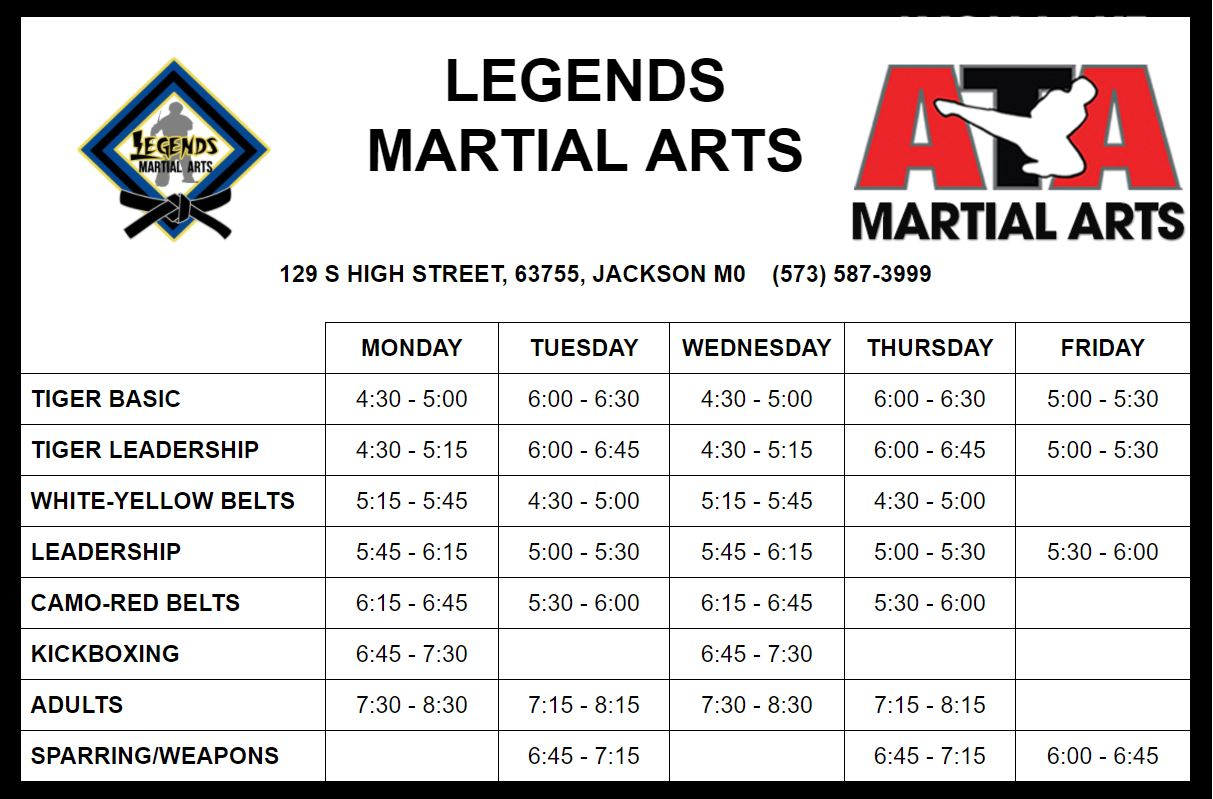
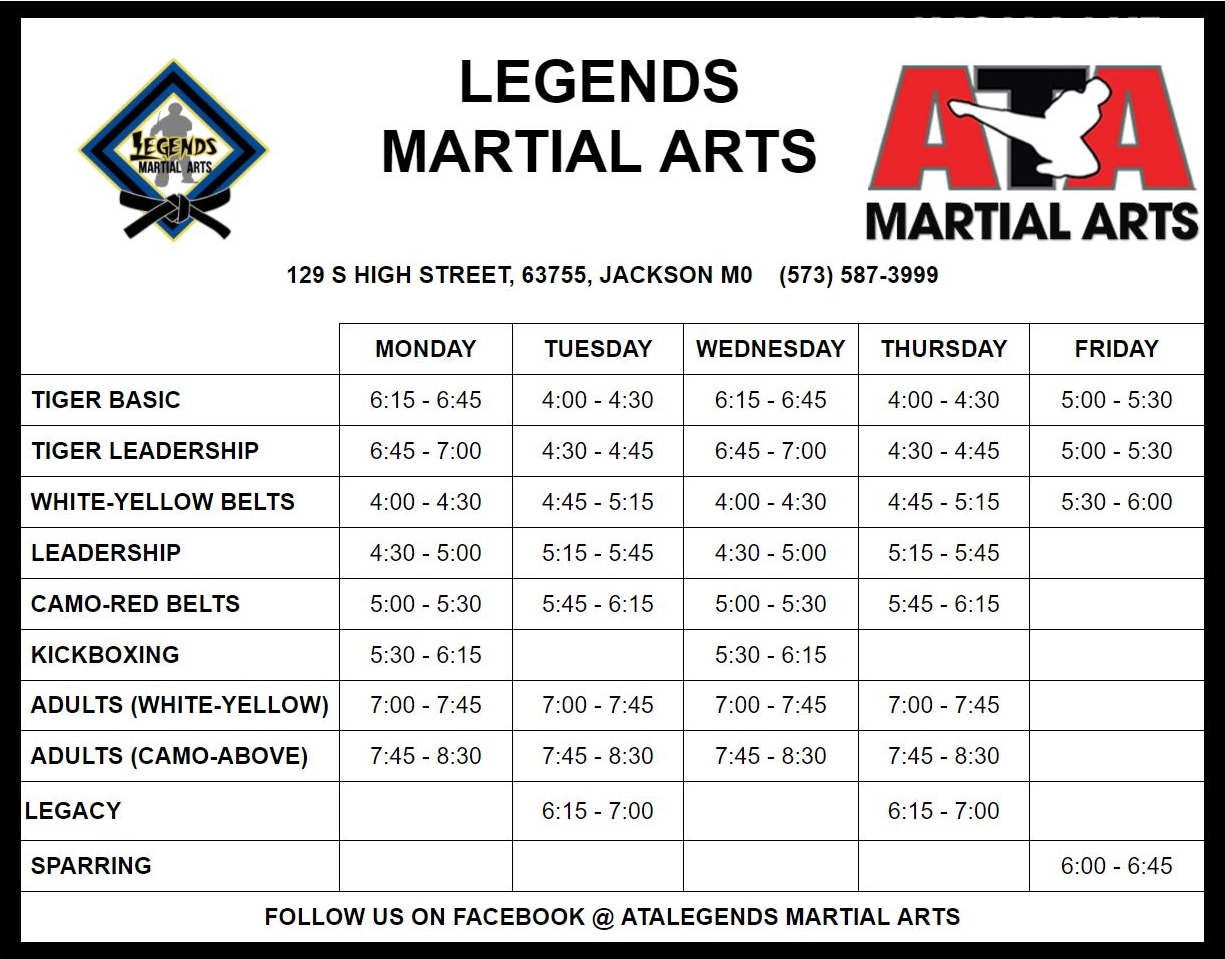
updated session times

Changed region(s): [[0.0, 0.0, 1.0, 0.9912], [0.305, 0.0601, 0.6711, 0.2403], [0.061, 0.0601, 0.244, 0.3004]]

diff --git a/kids.html b/kids.html
@@ -184,33 +184,89 @@
 
                         <hr />
 
+
+
+
                         <h3>ATA Karate Kids Schedule</h3>
 
-                        <ul class="dates-inline">
-                            <li>
-                                <div class="col-md-2 dates">
-                                    <h3>Monday 5:15 - 5:45</h3>
+
+                        <div class="tab" role="tabpanel">
+                            <!-- Nav tabs -->
+                            <ul class="nav nav-tabs" role="tablist">
+                                <li role="presentation" class="active"><a href="#Section1" aria-controls="home" role="tab" data-toggle="tab">White - Yellow Belts</a></li>
+                                <li role="presentation"><a href="#Section2" aria-controls="profile" role="tab" data-toggle="tab">Camo - Red Belts</a></li>
+                            </ul>
+                            <!-- Tab panes -->
+
+                            <div class="tab-content tabs">
+
+                                <div role="tabpanel" class="tab-pane fade in active" id="Section1">
+                                    <ul class="dates-inline">
+                                        <li>
+                                            <div class="col-md-2 dates">
+                                                <h4>Monday 4:00 - 4:30</h4>
+                                            </div>
+                                        </li>
+                                        <li>
+                                            <div class="col-md-2 dates">
+                                                <h4>Tuesday 4:45 - 5:15</h4>
+                                            </div>
+                                        </li>
+                                        <li>
+                                            <div class="col-md-2 dates">
+                                                <h4>Wednesday 4:00 - 4:30</h4>
+                                            </div>
+                                        </li>
+                                        <li>
+                                            <div class="col-md-2 dates">
+                                                <h4>Thursday 4:45 - 5:15</h4>
+                                            </div>
+                                        </li>
+                                        <li>
+                                            <div class="col-md-2 dates">
+                                                <h4>Friday 5:30 - 6:00</h4>
+                                            </div>
+                                        </li>
+                                    </ul>
                                 </div>
-                            </li>
-                            <li>
-                                <div class="col-md-2 dates">
-                                    <h3>Tuesday 4:30 - 5:00</h3>
+
+
+                                <div role="tabpanel" class="tab-pane fade" id="Section2">
+                                    <ul class="dates-inline">
+                                        <li>
+                                            <div class="col-md-2 dates">
+                                                <h4>Monday 5:00 - 5:30</h4>
+                                            </div>
+                                        </li>
+                                        <li>
+                                            <div class="col-md-2 dates">
+                                                <h4>Tuesday 5:45 - 6:15</h4>
+                                            </div>
+                                        </li>
+                                        <li>
+                                            <div class="col-md-2 dates">
+                                                <h4>Wednesday 5:00 - 5:30</h4>
+                                            </div>
+                                        </li>
+                                        <li>
+                                            <div class="col-md-2 dates">
+                                                <h4>Thursday 5:45 - 6:15</h4>
+                                            </div>
+                                        </li>
+                                    </ul>
                                 </div>
-                            </li>
-                            <li>
-                                <div class="col-md-2 dates">
-                                    <h3>Wednesday 5:15 - 5:45</h3>
-                                </div>
-                            </li>
-                            <li>
-                                <div class="col-md-2 dates">
-                                    <h3>Thursday 4:30 - 5:00</h3>
-                                </div>
-                            </li>
-                        </ul>
+
+
+
+                            </div>
+                        </div>
+
+
+
+
+
 
                     </div>
-
                     <div class="col-md-4 signup">
                         <div class="space-20"></div>
                         <h4 class="heading-mini">Sign Up NOW</h4>

diff --git a/adults.html b/adults.html
@@ -161,32 +161,72 @@
 
                         <h3>ATA Adult Schedule</h3>
 
-                        <ul class="dates-inline">
-                            <li>
-                                <div class="col-md-2 dates">
-                                    <h3>Monday</h3>
-                                    <p>7:30 - 8:30</p>
+
+                        <div class="tab" role="tabpanel">
+                            <!-- Nav tabs -->
+                            <ul class="nav nav-tabs" role="tablist">
+                                <li role="presentation" class="active"><a href="#Section1" aria-controls="home" role="tab" data-toggle="tab">White - Yellow Belts</a></li>
+                                <li role="presentation"><a href="#Section2" aria-controls="profile" role="tab" data-toggle="tab">Camo - Above Belts</a></li>
+                            </ul>
+                            <!-- Tab panes -->
+
+                            <div class="tab-content tabs">
+
+                                <div role="tabpanel" class="tab-pane fade in active" id="Section1">
+                                    <ul class="dates-inline">
+                                        <li>
+                                            <div class="col-md-2 dates">
+                                                <h4>Monday 7:00 - 7:45</h4>
+                                            </div>
+                                        </li>
+                                        <li>
+                                            <div class="col-md-2 dates">
+                                                <h4>Tuesday 7:00 - 7:45</h4>
+                                            </div>
+                                        </li>
+                                        <li>
+                                            <div class="col-md-2 dates">
+                                                <h4>Wednesday 7:00 - 7:45</h4>
+                                            </div>
+                                        </li>
+                                        <li>
+                                            <div class="col-md-2 dates">
+                                                <h4>Thursday 7:00 - 7:45</h4>
+                                            </div>
+                                        </li>
+                                    </ul>
                                 </div>
-                            </li>
-                            <li>
-                                <div class="col-md-2 dates">
-                                    <h3>Tuesday</h3>
-                                    <p>7:15 - 8:15</p>
+
+
+                                <div role="tabpanel" class="tab-pane fade" id="Section2">
+                                    <ul class="dates-inline">
+                                        <li>
+                                            <div class="col-md-2 dates">
+                                                <h4>Monday 7:45 - 8:30</h4>
+                                            </div>
+                                        </li>
+                                        <li>
+                                            <div class="col-md-2 dates">
+                                                <h4>Tuesday 7:45 - 8:30</h4>
+                                            </div>
+                                        </li>
+                                        <li>
+                                            <div class="col-md-2 dates">
+                                                <h4>Wednesday 7:45 - 8:30</h4>
+                                            </div>
+                                        </li>
+                                        <li>
+                                            <div class="col-md-2 dates">
+                                                <h4>Thursday 7:45 - 8:30</h4>
+                                            </div>
+                                        </li>
+                                    </ul>
                                 </div>
-                            </li>
-                            <li>
-                                <div class="col-md-2 dates">
-                                    <h3>Wednesday</h3>
-                                    <p>7:30 - 8:30</p>
-                                </div>
-                            </li>
-                            <li>
-                                <div class="col-md-2 dates">
-                                    <h3>Thursday</h3>
-                                    <p>7:15 - 8:15</p>
-                                </div>
-                            </li>
-                        </ul>
+
+
+
+                            </div>
+                        </div>
 
                     </div>
 

diff --git a/tigers.html b/tigers.html
@@ -164,32 +164,27 @@
                         <ul class="dates-inline">
                             <li>
                                 <div class="col-md-2 dates">
-                                    <h3>Monday</h3>
-                                    <p>4:30 - 5:00</p>
+                                    <h3>Monday 6:15 - 6:45</h3>
                                 </div>
                             </li>
                             <li>
                                 <div class="col-md-2 dates">
-                                    <h3>Tuesday</h3>
-                                    <p>5:00 - 6:30</p>
+                                    <h3>Tuesday 4:00 - 4:30</h3>
                                 </div>
                             </li>
                             <li>
                                 <div class="col-md-2 dates">
-                                    <h3>Wednesday</h3>
-                                    <p>4:30 - 5:00</p>
+                                    <h3>Wednesday 6:15 - 6:45</h3>
                                 </div>
                             </li>
                             <li>
                                 <div class="col-md-2 dates">
-                                    <h3>Thursday</h3>
-                                    <p>6:00 - 6:30</p>
+                                    <h3>Thursday 4:00 - 4:30</h3>
                                 </div>
                             </li>
                             <li>
                                 <div class="col-md-2 dates">
-                                    <h3>Friday</h3>
-                                    <p>5:00 - 5:30</p>
+                                    <h3>Friday 5:00 - 5:30</h3>
                                 </div>
                             </li>
 

diff --git a/kickboxing.html b/kickboxing.html
@@ -164,14 +164,12 @@
                         <ul class="dates-inline">
                             <li>
                                 <div class="col-md-2 dates">
-                                    <h3>Monday</h3>
-                                    <p>6:45 - 7:30</p>
+                                    <h3>Monday 5:30 - 6:15</h3>
                                 </div>
                             </li>
                             <li>
                                 <div class="col-md-2 dates">
-                                    <h3>Wednesday</h3>
-                                    <p>6:45 - 7:30</p>
+                                    <h3>Wednesday 5:30 - 6:15</h3>
                                 </div>
                             </li>
                         </ul>

diff --git a/assets/css/all.css b/assets/css/all.css
@@ -2604,9 +2604,6 @@ font-weight: 600;
 color: #000;
 }
 
-.homeContent h3 {
-text-align: center;
-}
 
 a:hover,a:focus{
     outline: none;
@@ -2656,7 +2653,7 @@ a:hover,a:focus{
     font-size: 16px;
     color: #808080;
     line-height: 26px;
-    padding: 10px 0;
+    padding: 0px 0;
     margin-top: 10px;
 }
 .tab .tab-content h3{
@@ -2679,3 +2676,7 @@ hr {
    margin-bottom: 10px;
 }
 
+.tab .tab-content h4 {
+    font-size: 18px;
+    color: #fff;
+}
